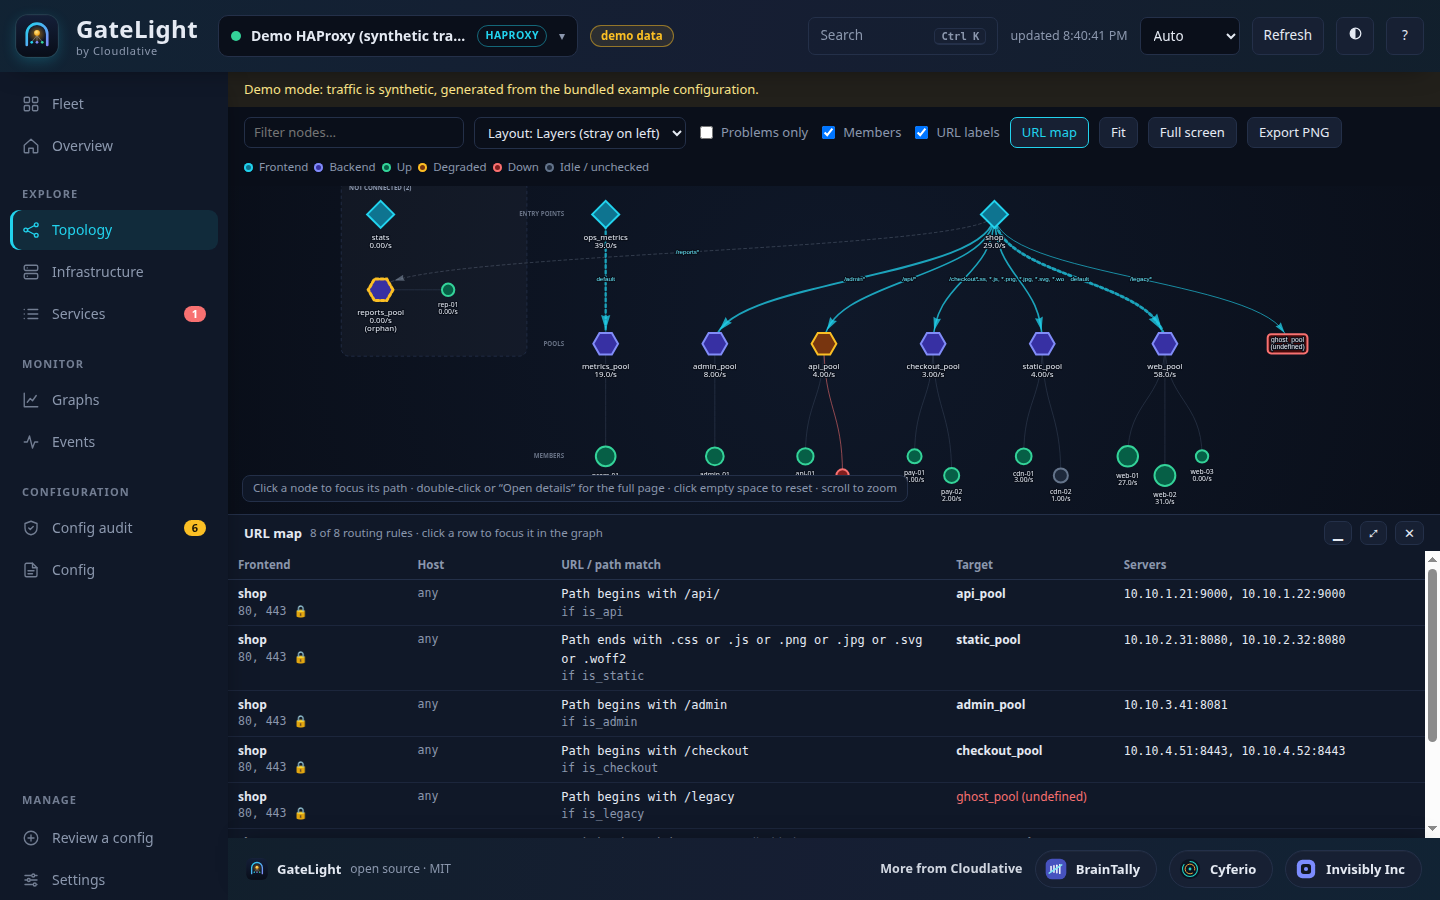
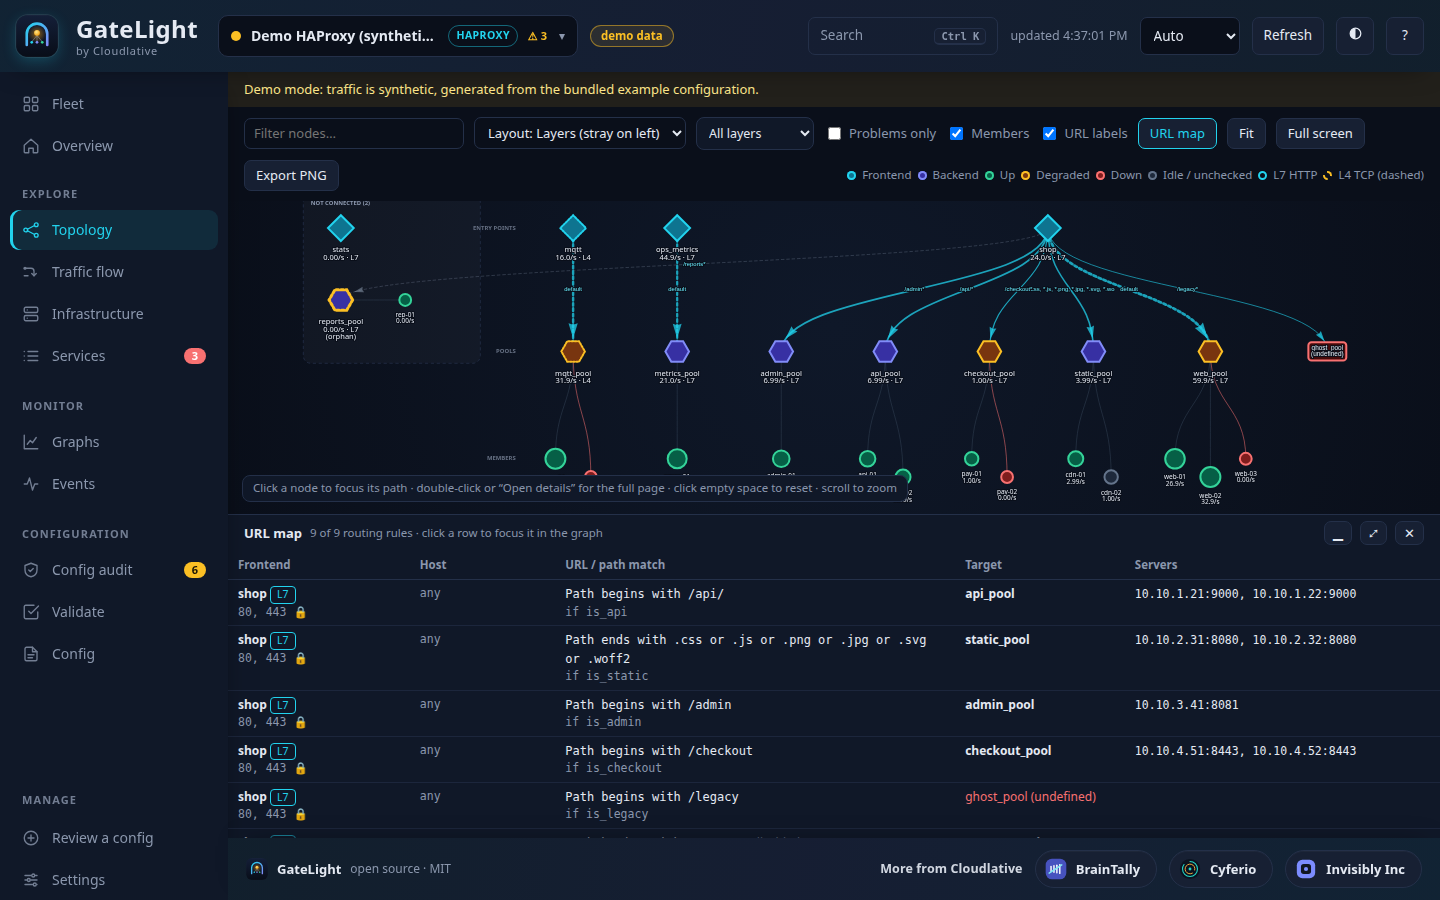
README and website: L7/L4, Traffic flow, Refresh from server, read-only guarantee; new screenshots

diff --git a/site/index.html b/site/index.html
@@ -146,10 +146,12 @@
       <article class="feat reveal"><div class="ico c4"><svg viewBox="0 0 24 24"><path d="M12 3l8 3v6c0 5-3.5 8-8 9-4.5-1-8-4-8-9V6z"/><path d="M9 12l2 2 4-4"/></svg></div><h3>Config audit, 39 rules</h3><p>Undefined backends, orphaned pools, missing health checks, weak credentials, exposed stats, config drift. Every finding has a line and a fix.</p></article>
       <article class="feat reveal"><div class="ico c2"><svg viewBox="0 0 24 24"><path d="M9 11l3 3L22 4"/><path d="M21 12v7a2 2 0 0 1-2 2H5a2 2 0 0 1-2-2V5a2 2 0 0 1 2-2h11"/></svg></div><h3>Validate against any version</h3><p>Check a config against the official docs of the exact release you run: HAProxy 1.7 to 3.4 and NGINX. See what is unknown, too new, removed or deprecated there, with a fix and version-aware recommendations.</p></article>
       <article class="feat reveal d2"><div class="ico c3"><svg viewBox="0 0 24 24"><path d="M3 7h9a4 4 0 0 1 4 4v6"/><path d="M13 14l3 3 3-3"/><path d="M3 17h5"/></svg></div><h3>Port-to-port and URI mapping</h3><p>Follow a request from listener to backend: which port it reaches, where TLS ends, and the exact path your backend receives after rewrites. Try any URL against the config.</p></article>
+      <article class="feat reveal"><div class="ico c4"><svg viewBox="0 0 24 24"><rect x="3" y="4" width="18" height="6" rx="2"/><rect x="3" y="14" width="18" height="6" rx="2" stroke-dasharray="3 3"/></svg></div><h3>L7 and L4 at a glance</h3><p>Every frontend and pool is labelled HTTP (L7) or TCP (L4), with a layer filter and tooltips on what each layer can and cannot see.</p></article>
+      <article class="feat reveal d1"><div class="ico c6"><svg viewBox="0 0 24 24"><path d="M21 12a9 9 0 1 1-3-6.7"/><path d="M21 4v5h-5"/></svg></div><h3>Refresh from the server</h3><p>Point GateLight at where your config is served and pull the current version with one click, with a summary of what changed. Read-only.</p></article>
       <article class="feat reveal d1"><div class="ico c5"><svg viewBox="0 0 24 24"><path d="M3 12h4l3-8 4 16 3-8h4"/></svg></div><h3>Live health for both</h3><p>HAProxy via CSV or the Runtime API. NGINX via stub_status, the Plus API and an active TCP probe, so even open-source NGINX gets per-server health.</p></article>
       <article class="feat reveal d2"><div class="ico c6"><svg viewBox="0 0 24 24"><path d="M14 3H6a2 2 0 0 0-2 2v14a2 2 0 0 0 2 2h12a2 2 0 0 0 2-2V9z"/><path d="M14 3v6h6M8 13h8M8 17h6"/></svg></div><h3>Review a config offline</h3><p>Drop a <code>haproxy.cfg</code>, an <code>nginx.conf</code> or a whole folder. Nothing is saved. Keep several as named instances and update them when files change.</p></article>
       <article class="feat reveal"><div class="ico c7"><svg viewBox="0 0 24 24"><path d="M18 8a6 6 0 0 0-12 0c0 7-3 9-3 9h18s-3-2-3-9"/><path d="M13.7 21a2 2 0 0 1-3.4 0"/></svg></div><h3>Alerts and metrics</h3><p>Slack, Mattermost and Teams-compatible webhooks on down and recovery. Prometheus <code>/metrics</code> out of the box.</p></article>
-      <article class="feat reveal d1"><div class="ico c8"><svg viewBox="0 0 24 24"><rect x="4" y="11" width="16" height="10" rx="2"/><path d="M8 11V7a4 4 0 0 1 8 0v4"/></svg></div><h3>Built to be trusted</h3><p>Sign-in, secret redaction, strict CSP, no client-supplied URLs fetched. Runs non-root with a read-only filesystem and no CDN calls.</p></article>
+      <article class="feat reveal d1"><div class="ico c8"><svg viewBox="0 0 24 24"><rect x="4" y="11" width="16" height="10" rx="2"/><path d="M8 11V7a4 4 0 0 1 8 0v4"/></svg></div><h3>Built to be trusted</h3><p>Read-only toward your servers (enforced in code and tests), sign-in, secret redaction, strict CSP. Runs non-root with a read-only filesystem and no CDN calls.</p></article>
       <article class="feat reveal d2"><div class="ico c9"><svg viewBox="0 0 24 24"><path d="M4 17l6-6-6-6M12 19h8"/></svg></div><h3>CI-ready CLI</h3><p><code>gatelight audit haproxy.cfg --fail-on error</code> with GitHub annotation output. Block risky configs before they ship.</p></article>
     </div>
   </div>
@@ -168,11 +170,12 @@
         <button role="tab" aria-selected="false" data-tab="1">Graphs</button>
         <button role="tab" aria-selected="false" data-tab="2">Infrastructure</button>
         <button role="tab" aria-selected="false" data-tab="3">Topology</button>
-        <button role="tab" aria-selected="false" data-tab="4">Mind map</button>
-        <button role="tab" aria-selected="false" data-tab="5">Tree</button>
-        <button role="tab" aria-selected="false" data-tab="6">NGINX</button>
-        <button role="tab" aria-selected="false" data-tab="7">Audit</button>
-        <button role="tab" aria-selected="false" data-tab="8">Details</button>
+        <button role="tab" aria-selected="false" data-tab="4">Traffic flow</button>
+        <button role="tab" aria-selected="false" data-tab="5">Mind map</button>
+        <button role="tab" aria-selected="false" data-tab="6">Tree</button>
+        <button role="tab" aria-selected="false" data-tab="7">NGINX</button>
+        <button role="tab" aria-selected="false" data-tab="8">Audit</button>
+        <button role="tab" aria-selected="false" data-tab="9">Details</button>
       </div>
       <div class="window big">
         <div class="win-bar"><i></i><i></i><i></i><span id="tour-title">GateLight · Overview</span></div>
@@ -181,6 +184,7 @@
           <img class="shot" src="img/graphs.png" alt="Graphs: zoom, pan, clickable legends and donut charts" width="1440" height="900" loading="lazy">
           <img class="shot" src="img/infrastructure.png" alt="Infrastructure: networks, hosts and services with aliveness" width="1440" height="900" loading="lazy">
           <img class="shot" src="img/topology-haproxy.png" alt="Topology in the Layers layout" width="1440" height="900" loading="lazy">
+          <img class="shot" src="img/traffic-flow-diagram.png" alt="Traffic flow: listeners, rules and pools with ports, member IPs and live status" width="1440" height="900" loading="lazy">
           <img class="shot" src="img/topology-mindmap.png" alt="Mind map layout showing the URIs each node handles" width="1440" height="900" loading="lazy">
           <img class="shot" src="img/topology-tree.png" alt="Tree layout like the tree command" width="1440" height="900" loading="lazy">
           <img class="shot" src="img/topology-nginx.png" alt="NGINX topology with a URL map" width="1440" height="900" loading="lazy">

diff --git a/site/main.js b/site/main.js
@@ -30,6 +30,7 @@
     ['Graphs', 'Zoom by dragging, pan with the hand tool, one shared crosshair, clickable legends and donut charts for HTTP errors. Up to 7 days of history.'],
     ['Infrastructure', 'Load balancer, networks, hosts and services in a foldable hierarchy, each with its aliveness.'],
     ['Topology', 'Frontends, routing rules, pools and servers with live traffic. Click a node to focus its path.'],
+    ['Traffic flow', 'Listener to rule to pool, with backend IPs and ports, where TLS ends, the path your backend receives, and which relationships are live.'],
     ['Mind map', 'The same map as a radial mind map, with the URIs each node handles written on it.'],
     ['Tree', 'The whole estate as an outline, like the tree command. Fold it, copy it as text.'],
     ['NGINX', 'NGINX too: server blocks, locations and upstreams, plus a resizable URL map.'],

diff --git a/README.md b/README.md
@@ -131,6 +131,8 @@ GateLight reads your config and your live stats and draws the whole picture: **w
 
 **See**
 - **Relationship map**: frontends / `server {}` blocks → routing rules (`use_backend … if acl`, `location /x`) → backends / upstreams → servers. Live status colours, traffic-weighted edges, orphans and broken routes highlighted, click a node to focus its path, double-click for its details page, PNG export, full-screen mode.
+- **L7 and L4 at a glance**: every frontend and pool is labelled **L7** (HTTP: host, path, headers, rewrites) or **L4** (TCP: ports and TLS SNI only, dashed), with a layer filter and tooltips explaining what each layer can and cannot see.
+- **Traffic flow**: follow a request from listener port to backend `ip:port`, where TLS ends or restarts, and the exact path your backend receives after rewrites. Each relationship is marked **active / idle / down / never used**, and *Try a request* traces any URL through the config.
 - **Four layouts**: *Layers*, *Flow*, *Mind map* (shows the URIs each node handles) and *Tree* (a `tree`-style outline you can fold and copy).
 - **Infrastructure**: the infrastructure behind the load balancer with an aliveness status per server, as a foldable hierarchy (load balancer → networks → hosts → services), or grouped by pool or by host, with "only alive" / "only not alive" filters.
 - **Graphs**: Grafana-style charts for requests/s, session rate, sessions, 5xx, throughput, response time and servers up/down, plus a chart per server, pool and frontend. Drag to zoom, ✋ to pan, step through time, shared crosshair, clickable legends with per-series stats, full-screen. HTTP response and error **donut charts** per instance and per backend.
@@ -145,11 +147,13 @@ GateLight reads your config and your live stats and draws the whole picture: **w
 
 **Use it your way**
 - **Review a config offline**: drop a `haproxy.cfg`, an `nginx.conf` or a **whole folder** (with `conf.d/` includes). Nothing is saved; it is analysed in memory and cleared with one click.
+- **Refresh from server**: point GateLight at the URL (or file) your config is served from and pull the current version with one click, with a summary of what changed. Read-only: `GET` only.
 - **Keep configs as named instances** and **Update config** whenever the file changes: the map, audit and URL map are rebuilt and anything that disappeared is dropped.
 - **Connect from the browser**: add a server (URL, user, password) in the UI. Connections are private to the browser that added them.
 - **CI-ready CLI**: `gatelight audit haproxy.cfg --fail-on error`, with GitHub annotation output.
 
 **Built for real teams**
+- **Read-only toward your load balancers, enforced in code**: only `GET`/`HEAD`, only `show stat` / `show info` on the HAProxy Runtime API, config files never written. Covered by tests.
 - Password **sign-in** (hashed passwords supported), a profile page, multi-instance fleet view, secret redaction everywhere, strict CSP, no CDN dependencies (works air-gapped), light and dark themes, command palette (`Ctrl/⌘ K`), keyboard shortcuts.
 
 
@@ -200,6 +204,10 @@ It follows the official semantics. In HAProxy, a server written without a port u
 <tr>
 <td width="50%"><img src="docs/img/topology-nginx.png" alt="NGINX topology with URL map"><br><sub><b>NGINX too</b>: server blocks, locations and upstreams, plus a resizable URL map.</sub></td>
 <td width="50%"><img src="docs/img/audit.png" alt="Configuration audit with charts and findings"><br><sub><b>Config audit</b>: every finding has a line number and a fix, with charts.</sub></td>
+</tr>
+<tr>
+<td width="50%"><img src="docs/img/traffic-flow-diagram.png" alt="Traffic flow diagram: listeners, rules and pools with ports, member IPs and live status"><br><sub><b>Traffic flow</b>: listener → rule → pool with backend IPs and ports, and live / idle / never-used relationships.</sub></td>
+<td width="50%"><img src="docs/img/traffic-flow.png" alt="Try a request: every step, the winning rule and the rewritten path"><br><sub><b>Try a request</b>: follow any URL step by step through the config.</sub></td>
 </tr>
 <tr>
 <td width="50%"><img src="docs/img/details.png" alt="Details page for a backend"><br><sub><b>Details</b>: a page per item, not a panel in the way.</sub></td>
